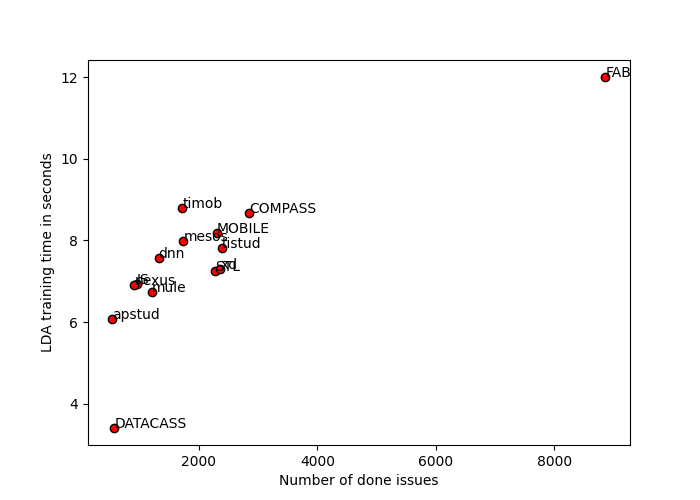
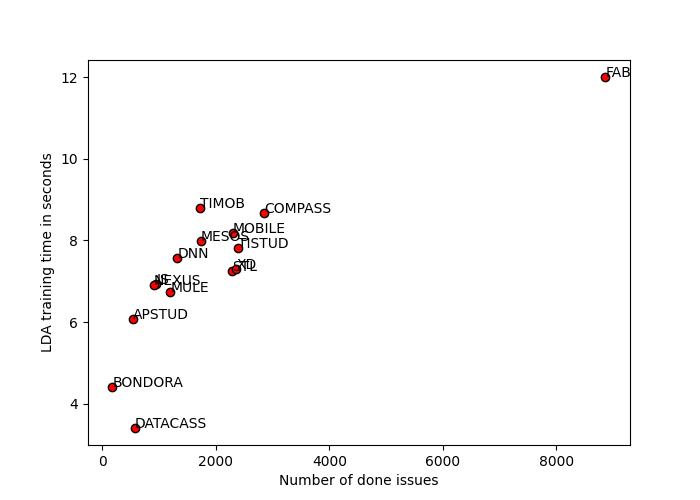
new plots

diff --git a/thesis-api/algorithm/plots.py b/thesis-api/algorithm/plots.py
@@ -35,34 +35,52 @@ def barchart():
  
 def plot_performance_velocity():
 	projects = pd.read_csv('./thesis-api/algorithm/validation/grouped/project_execution_time.csv', encoding='utf-8')
+	
 	df_list = [pd.read_csv(filename) for filename in glob.glob("./thesis-api/algorithm/validation/*.csv")]
 
 	df = pd.concat(df_list, axis=0)
  
 	projects.set_index('project', inplace=True)
-
  
 	test = projects["mean_opt_s"].to_dict()
  
 	df["mean_opt_s"] = df["project"].map(test)
  
 	df["y"] = (df["opt_execution_time"] / df["mean_opt_s"]) * 100
- 
-	# colors = ["#2f4f4f", "#006400", "#00008b", "#48d1cc", "#ff0000", "#ffa500", "#ffff00", "#00ff00", "#00fa9a", "#0000ff", "#d8bfd8", "#ff00ff", "#1e90ff", "#f0e68c", "#fa8072"]
- 
-	# grouped_projects = df.groupby("project")
-	# i = 0
-	# for project, project_df in grouped_projects: 
- 
-	# 	plt.scatter(project_df["velocity"], project_df["y"],  facecolor=colors[i], edgecolor='black', marker=".")
-	# 	i += 1
-  	
+   	
 	plt.scatter(df["velocity"], df["y"],  facecolor="red", edgecolor='black', marker=".")
 	plt.xlabel("Velocity")
 	plt.ylabel("Dev. opt. time percentage from project mean")
 	plt.savefig('./thesis-api/algorithm/validation/plots2/scatter_opt_velocity.png')
  
+ 
+def plot_hv_velocity():
+	df_list = [pd.read_csv(filename) for filename in glob.glob("./thesis-api/algorithm/validation/*.csv")]
 
+	df = pd.concat(df_list, axis=0)
+
+	df["y"] = (df["hypervolume"] / df["velocity"])
+
+	plt.scatter(df["velocity"], df["y"],  facecolor="red", edgecolor='black', marker=".")
+	plt.xlabel("Number of issues")
+	plt.ylabel("Per issue HV")
+	plt.savefig('./thesis-api/algorithm/validation/plots2/scatter_hv_velocity.png')
+ 
+def plot_opt_velocity_box():
+	df_list = [pd.read_csv(filename) for filename in glob.glob("./thesis-api/algorithm/validation/*.csv")]
+	df = pd.read_csv('./thesis-api/algorithm/validation/grouped/project_execution_time.csv', encoding='utf-8')
+
+	df = pd.concat(df_list, axis=0)
+ 
+	ax = df.boxplot(column="opt_execution_time", by="velocity")
+	ax.set_title("")
+	fig = ax.get_figure()
+	fig.suptitle('')
+	plt.xlabel("Number of issues")
+	plt.ylabel("Optimization time")
+	plt.savefig('./thesis-api/algorithm/validation/plots2/box_opt_velocity.png')	
+	plt.show()
+ 
  
 def plot_performance_lda():
 	df = pd.read_csv('./thesis-api/algorithm/validation/grouped/project_execution_time.csv', encoding='utf-8')
@@ -128,7 +146,7 @@ def generate_word_clouds():
 
 	for project, project_df in grouped_projects: 
 		
-		if (project not in ["DATACASS"]):
+		if (project not in ["xd"]):
 			continue
 
 		done = h.get_done_issues(project_df)
@@ -147,9 +165,11 @@ def generate_word_clouds():
 if __name__ == '__main__':
 	# plot_number_of_topics_hypervolume()
 	# barchart()
-	# generate_word_clouds()
-	plot_performance_lda()
+	generate_word_clouds()
+	# plot_performance_lda()
 	# plot_performance_opt()
 	# plot_performance_velocity()
 	# plot_hv_backlog()
+	# plot_hv_velocity()
+	# plot_opt_velocity_box()
 	pass

diff --git a/thesis-api/algorithm/research.py b/thesis-api/algorithm/research.py
@@ -53,7 +53,7 @@ def save_results():
 
 	for project, project_df in grouped_projects: 
 		
-		if (project not in ["MDL"]):
+		if (project not in ["COMPASS"]):
 			continue
 
 		print(project)
@@ -86,8 +86,8 @@ def save_results():
 		grouped_users = done.groupby("assignee.name")
 
 		for user, user_df in grouped_users: 
-		# 	if user not in ["anna.herlihy", "brian.blevins"]:
-		# 		continue
+			if user not in ["durran.jordan", "anna.herlihy"]:
+				continue
 
 			print(user)
 		
@@ -105,6 +105,8 @@ def save_results():
 
 			res = get_optimization_result(backlog, vector, velocity)
    
+			print(res.F)
+   
 			hv_indicator = get_performance_indicator("hv", ref_point=np.array([1.1, 1.1, 1.1]))
  
 			hypervolume =  hv_indicator.do(res.F)
@@ -119,8 +121,9 @@ def save_results():
 			results['velocity'].append(velocity)
 			results['opt_execution_time'].append(opt_execution_time)
 			results['lda_execution_time'].append(lda_execution_time)
+			print(results["hypervolume"])
 						
-		pd.DataFrame(results).to_csv('./thesis-api/algorithm/validation/' + project.lower() + '.csv', index=False)
+		# pd.DataFrame(results).to_csv('./thesis-api/algorithm/validation/' + project.lower() + '.csv', index=False)
 
 
 
@@ -233,14 +236,8 @@ def issue_counts():
 	df.to_csv("./thesis-api/algorithm/validation/grouped/issue_counts.csv")
   
 if __name__ == '__main__':
-	# save_results()
-	result_stats()
-	performance_stats()
-	# plot_number_of_topics_hypervolume()
-	# barchart()
-	# generate_word_clouds()
-	# plot_performance_lda()
-	# plot_performance_opt()
-	# plot_performance_velocity()
+	save_results()
+	# result_stats()
+	# performance_stats()
 	# issue_counts()
 	pass

diff --git a/thesis-api/algorithm/bondora_research.py b/thesis-api/algorithm/bondora_research.py
@@ -231,8 +231,9 @@ def compare_answers_to_gen():
 		picked_F = np.array([-picked_issues["businessvalue"].sum(), -picked_issues["issue_similarity"].sum(), -picked_issues["novelty"].sum()])
 		generated_F = np.array([-generated_issues["businessvalue"].sum(), -generated_issues["issue_similarity"].sum(), -generated_issues["novelty"].sum()])
 
-		print(picked_F)
-		print(generated_F)
+		# print(picked_F)
+		# print(generated_F)
+		print("vector", vector)
   
 		indicator = get_performance_indicator("gd", res.F)
 
@@ -246,7 +247,7 @@ def compare_answers_to_gen():
   
 		pf_without_best = np.delete(res.F, best_index, axis=0)
   
-		# print(res.F)
+		print(res.F)
 		# print(pf_without_best)
   
 		test = res.F[best_index]
@@ -262,11 +263,11 @@ def compare_answers_to_gen():
 		plot.title
 		plot.add(picked_F * -1)
 		plot.add(generated_F * -1)
-		plot.show()
+		# plot.show()
 		# plot.save("./thesis-api/dataset/bondora/petal_plots/" + user)
 
   
-	print(results["picked_distance_from_pf"])
+	# print(results["picked_distance_from_pf"])
 	# pd.DataFrame(results).to_csv('./thesis-api/dataset/bondora/picked_distance_from_pf.csv', index=False)
 
 def likert_plots():
@@ -327,8 +328,8 @@ def likert_plots():
 	ax2.figure.savefig('./thesis-api/dataset/bondora/likert_plots/section3.png')
 
 if __name__ == '__main__':
-	save_bondora_results()
+	# save_bondora_results()
 	# save_bondora_backlog()
-	# compare_answers_to_gen()
+	compare_answers_to_gen()
 	# likert_plots()
  

diff --git a/thesis-api/app.py b/thesis-api/app.py
@@ -8,6 +8,8 @@ import numpy as np
 import sys
 from ast import literal_eval
 
+pd.options.mode.chained_assignment = None  # default='warn'
+
 sys.path.insert(0, './algorithm')
 sys.path.insert(0, './algorithm/helpers')
 
@@ -24,11 +26,11 @@ mongo = PyMongo(app)
 
 db = mongo.db
 
-dataset = pd.read_csv('./dataset/jiradataset_issues_v1.4.csv', encoding='utf-8')
+# dataset = pd.read_csv('./dataset/jiradataset_issues_v1.4.csv', encoding='utf-8')
 
-dataset = pp.preprocess(dataset)
+# dataset = pp.preprocess(dataset)
 
-dataset.to_csv('./dataset/preprocessed_dataset.csv')
+# dataset.to_csv('./dataset/preprocessed_dataset.csv')
 
 dataset = pd.read_csv('./dataset/preprocessed_dataset.csv', encoding='utf-8')
 

diff --git a/thesis-api/algorithm/helpers/other_helpers.py b/thesis-api/algorithm/helpers/other_helpers.py
@@ -62,7 +62,7 @@ def calculate_novelty(developer_vector, issue_vector):
 
 def get_hyperparameters(project):
     
-    df = pd.read_csv('./thesis-api/algorithm/lda_tuning_results/lda_params.csv', encoding='utf-8')
+    df = pd.read_csv('./algorithm/lda_tuning_results/lda_params.csv', encoding='utf-8')
 
     row = df.loc[df["project"] == project.lower()].iloc[0]
 
